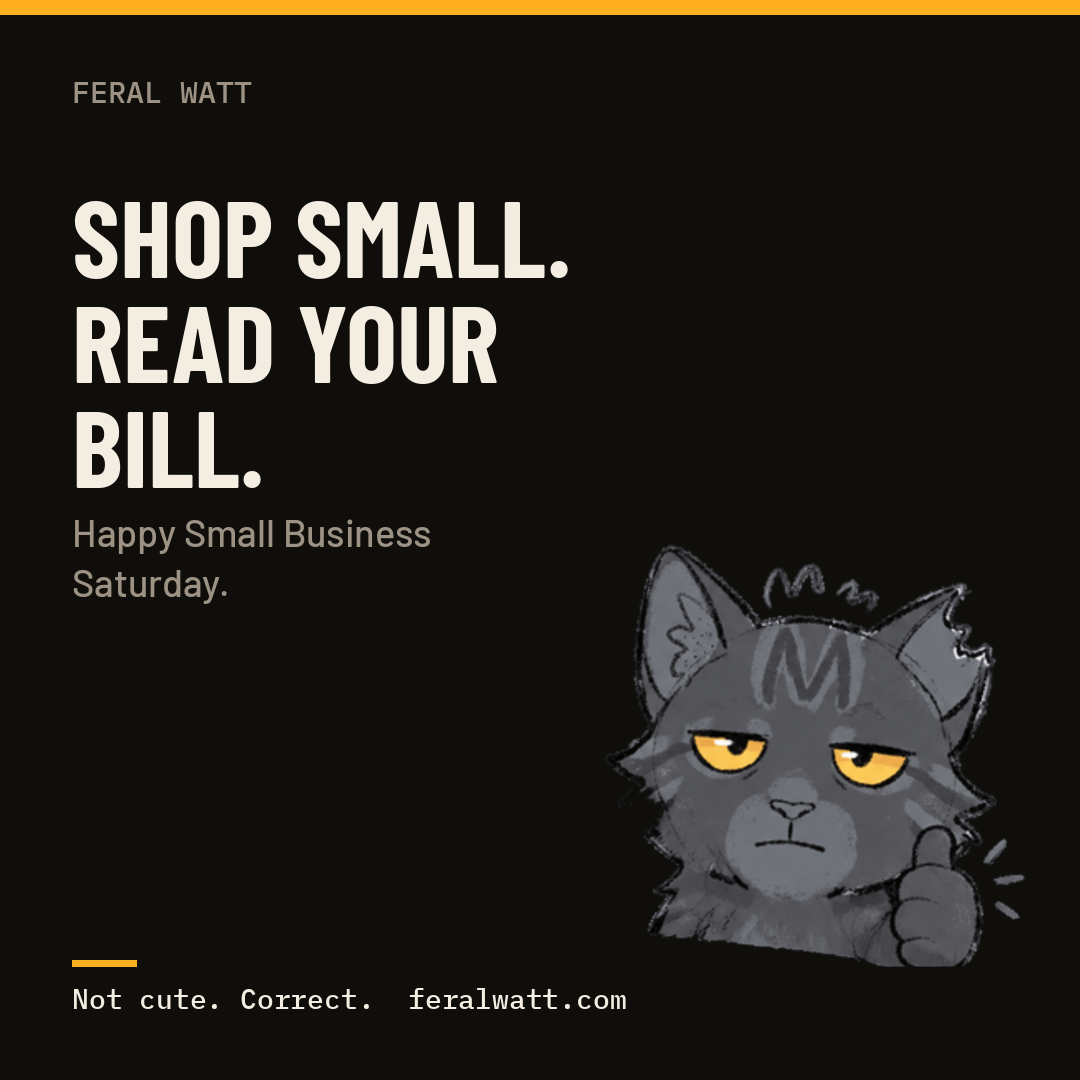
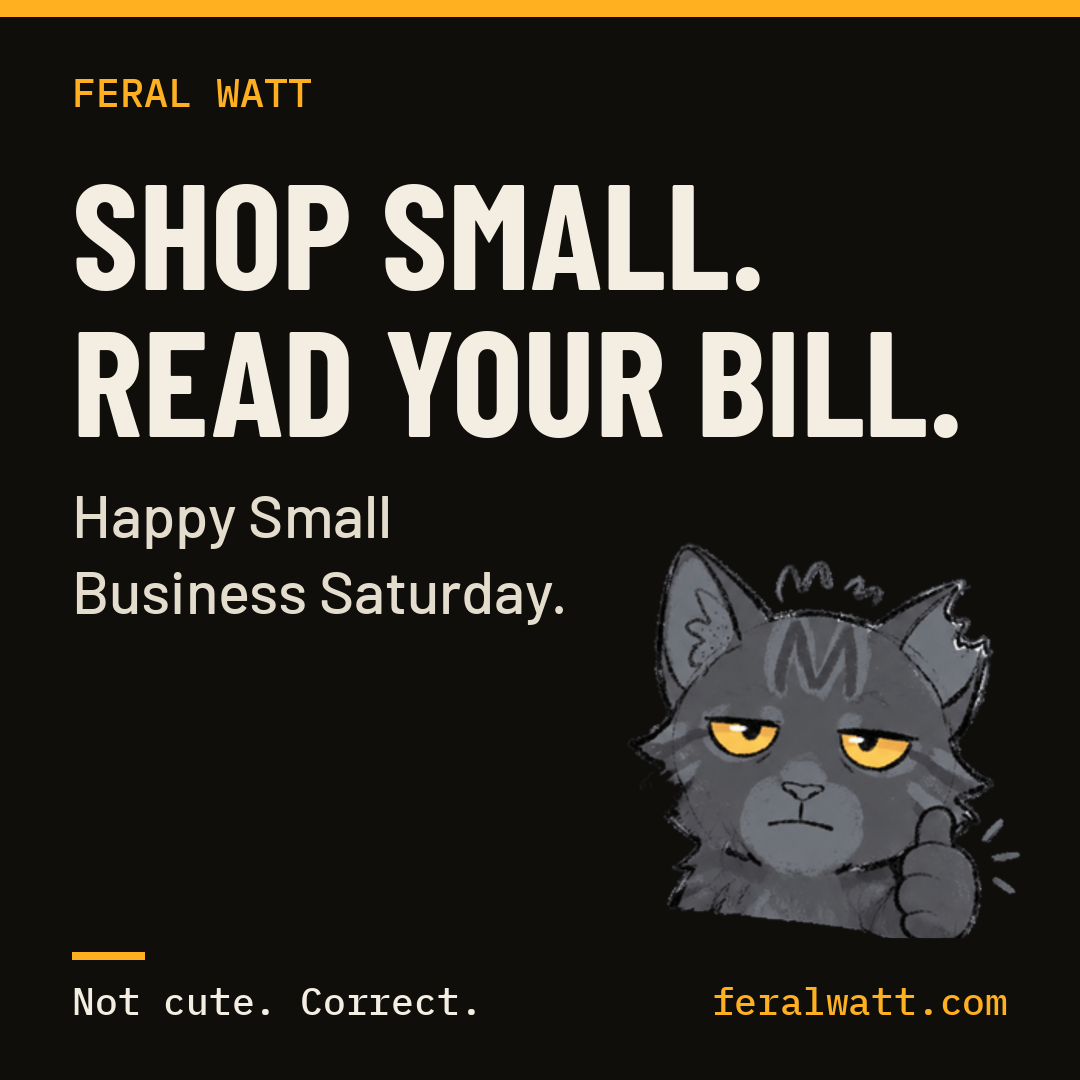
Bigger, phone-readable type on all social cards
Feral Watt: label 40, headline up to 150 across full width, subline 52-60
in brighter cream, footer 38 with feralwatt.com in amber. Howdy Move:
subline 56, tagline 46, text block centered above the footer band.
Headlines accept a forced line break.

diff --git a/social-cards/make_cards.py b/social-cards/make_cards.py
@@ -16,12 +16,14 @@ def font(path, size, var=None):
     return f
 
 def wrap(draw, text, f, max_w):
-    words, lines, cur = text.split(), [], ""
-    for w in words:
-        t = (cur + " " + w).strip()
-        if draw.textlength(t, font=f) <= max_w: cur = t
-        else: lines.append(cur); cur = w
-    if cur: lines.append(cur)
+    lines = []
+    for part in text.split("\n"):  # "\n" in a headline forces a line break
+        cur = ""
+        for w in part.split():
+            t = (cur + " " + w).strip()
+            if draw.textlength(t, font=f) <= max_w: cur = t
+            else: lines.append(cur); cur = w
+        if cur: lines.append(cur)
     return lines
 
 def fit_headline(draw, text, path, max_w, max_h, start, var=None, lh=1.0):
@@ -35,43 +37,66 @@ def fit_headline(draw, text, path, max_w, max_h, start, var=None, lh=1.0):
         size -= 4
     f = font(path, size, var); return f, wrap(draw, text, f, max_w), size
 
+def sub_fit(d, text, path, max_w, max_h, start, var=None, lh=1.28, floor=40):
+    size = start
+    while True:
+        f = font(path, size, var)
+        lines = wrap(d, text, f, max_w)
+        if len(lines) * size * lh <= max_h or size <= floor:
+            return f, lines, size
+        size -= 2
+
+# Sizes tuned for a 1080x1080 card read on a phone feed (Nov 13, 2026):
+# label 40, headline up to 150 across the full width, subline 52 to 60, footer 38.
 def feral(card, fonts, poses, out):
     img = Image.new("RGB", (W, H), "#100E0B"); d = ImageDraw.Draw(img)
-    d.rectangle([0, 0, W, 14], fill="#FFB020")
-    lab = font(fonts["mono"], 30)
-    d.text((72, 72), "FERAL WATT", font=lab, fill="#9C9385")
-    f, lines, size = fit_headline(d, card["headline"].upper(), fonts["barlowc"], 500, 420, 140, lh=0.98)
-    y = 170
+    d.rectangle([0, 0, W, 16], fill="#FFB020")
+    d.text((72, 66), "FERAL WATT", font=font(fonts["mono"], 40), fill="#FFB020")
+    pose = Image.open(os.path.join(poses, f"static-{card['pose']}@2x.png")).convert("RGBA")
+    pose.thumbnail((440, 440))
+    px, py = W - pose.width - 36, H - pose.height - 120
+    f, lines, size = fit_headline(d, card["headline"].upper(), fonts["barlowc"], 936, py - 170, 150, lh=0.98)
+    y = 140
     for l in lines:
         d.text((72, y), l, font=f, fill="#F3EDE2"); y += int(size * 0.98)
     if card.get("sub"):
-        sf = font(fonts["barlow"], 38); y += 24
-        for l in wrap(d, card["sub"], sf, 480):
-            d.text((72, y), l, font=sf, fill="#9C9385"); y += 50
-    pose = Image.open(os.path.join(poses, f"static-{card['pose']}@2x.png")).convert("RGBA")
-    pose.thumbnail((470, 470))
-    img.paste(pose, (W - pose.width - 30, H - pose.height - 90), pose)
-    d.rectangle([72, H - 120, 72 + 64, H - 114], fill="#FFB020")
-    d.text((72, H - 100), "Not cute. Correct.  feralwatt.com", font=font(fonts["mono"], 28), fill="#F3EDE2")
+        y += 44
+        sf, sl, ss = sub_fit(d, card["sub"], fonts["barlow"], px - 72 - 30, H - 150 - y, 60, floor=44)
+        for l in sl:
+            d.text((72, y), l, font=sf, fill="#E4DCCD"); y += int(ss * 1.28)
+    img.paste(pose, (px, py), pose)
+    ff = font(fonts["mono"], 38)
+    d.rectangle([72, H - 128, 72 + 72, H - 121], fill="#FFB020")
+    d.text((72, H - 104), "Not cute. Correct.", font=ff, fill="#F3EDE2")
+    t = "feralwatt.com"
+    d.text((W - 72 - d.textlength(t, font=ff), H - 104), t, font=ff, fill="#FFB020")
     img.save(os.path.join(out, card["slug"] + ".png"))
 
 def howdy(card, fonts, logo, out):
     img = Image.new("RGB", (W, H), "#F6EAD0"); d = ImageDraw.Draw(img)
-    d.rectangle([0, H - 210, W, H], fill="#1C3D5A")
-    d.rectangle([72, 120, 72 + 120, 132], fill="#D6452B")
-    f, lines, size = fit_headline(d, card["headline"], fonts["bricolage"], 936, 470, 130, var="ExtraBold", lh=1.05)
-    y = 170
+    band = 210
+    d.rectangle([0, H - band, W, H], fill="#1C3D5A")
+    f, lines, size = fit_headline(d, card["headline"], fonts["bricolage"], 936, 470, 136, var="ExtraBold", lh=1.05)
+    blocks = int(len(lines) * size * 1.05)
+    sf = sl = None; ss = 0
+    if card.get("sub"):
+        sf, sl, ss = sub_fit(d, card["sub"], fonts["dmsans"], 936, 260, 56, var="Medium", lh=1.3, floor=44)
+        blocks += 36 + int(len(sl) * ss * 1.3)
+    top = 60 + 12 + 40
+    avail = H - band - top - 60
+    y = top + max(0, (avail - blocks) // 2)
+    d.rectangle([72, y - 52, 72 + 120, y - 40], fill="#D6452B")
     for l in lines:
         d.text((72, y), l, font=f, fill="#1C3D5A"); y += int(size * 1.05)
-    if card.get("sub"):
-        sf = font(fonts["dmsans"], 42, "Medium"); y += 28
-        for l in wrap(d, card["sub"], sf, 900):
-            d.text((72, y), l, font=sf, fill="#14202B"); y += 56
-    lg = Image.open(logo).convert("RGBA"); lg.thumbnail((520, 140))
-    img.paste(lg, (72, H - 105 - lg.height // 2), lg)
-    tf = font(fonts["dmsans"], 36, "SemiBold")
+    if sl:
+        y += 36
+        for l in sl:
+            d.text((72, y), l, font=sf, fill="#14202B"); y += int(ss * 1.3)
+    lg = Image.open(logo).convert("RGBA"); lg.thumbnail((540, 150))
+    img.paste(lg, (72, H - band // 2 - lg.height // 2), lg)
+    tf = font(fonts["dmsans"], 46, "SemiBold")
     t = "Y'all settled?"
-    d.text((W - 72 - d.textlength(t, font=tf), H - 125), t, font=tf, fill="#F6EAD0")
+    d.text((W - 72 - d.textlength(t, font=tf), H - band // 2 - 30), t, font=tf, fill="#F6EAD0")
     img.save(os.path.join(out, card["slug"] + ".png"))
 
 if __name__ == "__main__":
